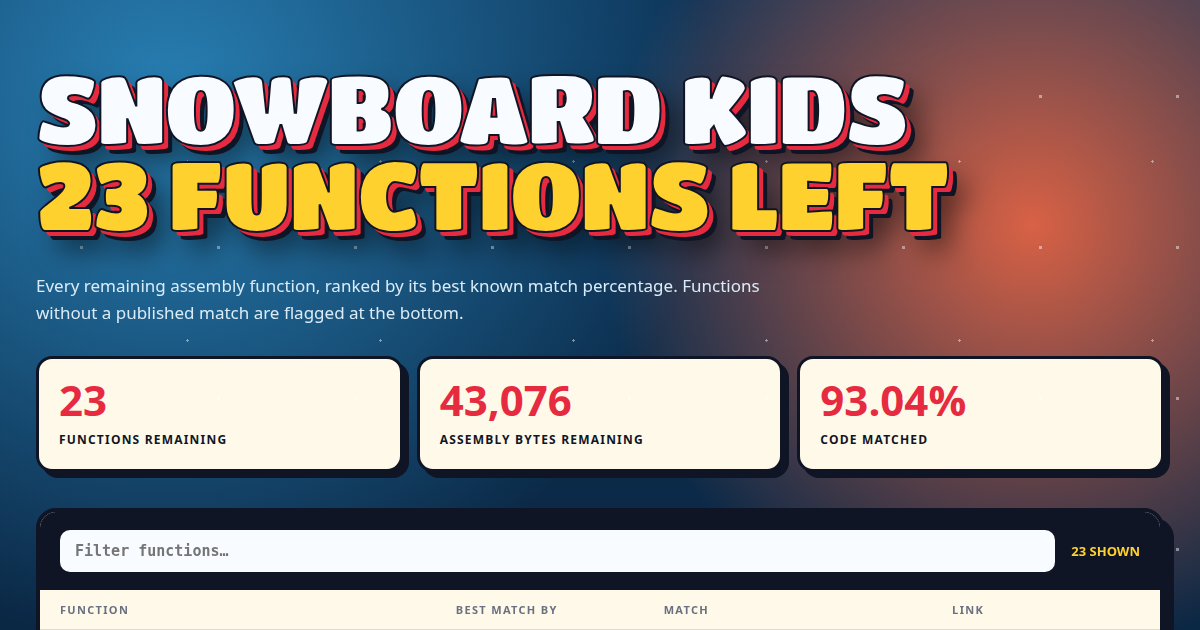
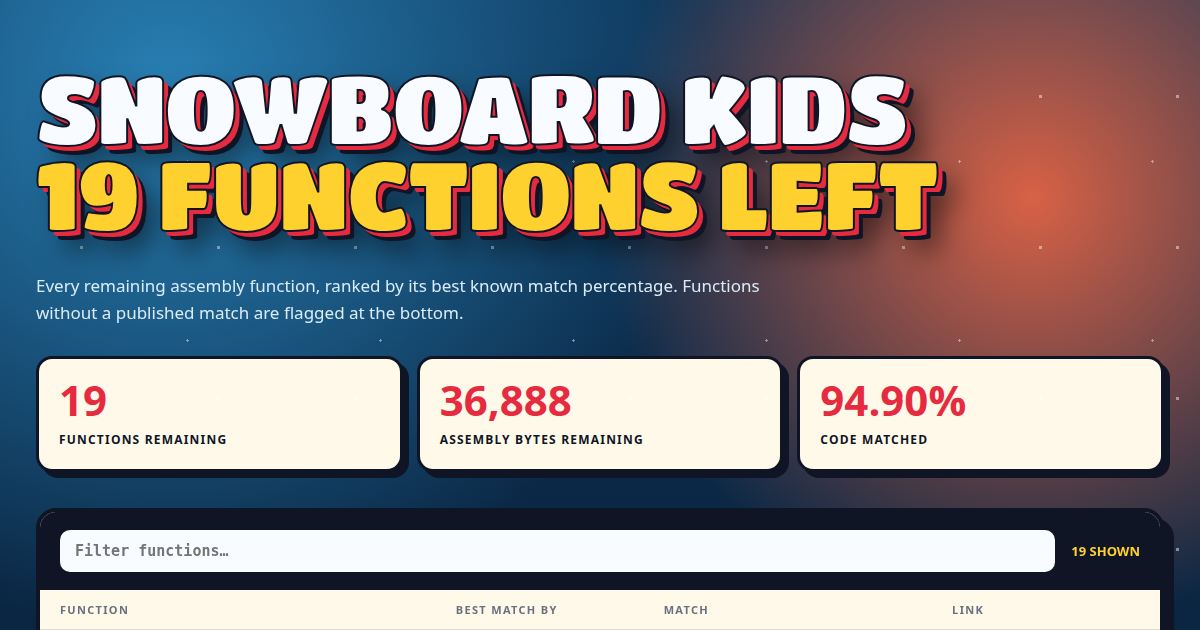
update leaderboard

diff --git a/docs/index.html b/docs/index.html
@@ -3,9 +3,9 @@
   <head>
     <meta charset="utf-8" />
     <meta name="viewport" content="width=device-width, initial-scale=1" />
-    <title>Snowboard Kids — 23 Functions Left</title>
+    <title>Snowboard Kids — 19 Functions Left</title>
     <meta name="description" content="Snowboard Kids matching decompilation progress and remaining function report." />
-    <meta property="og:title" content="Snowboard Kids — 23 Functions Left" />
+    <meta property="og:title" content="Snowboard Kids — 19 Functions Left" />
     <meta property="og:description" content="Best known match percentages for the remaining functions." />
     <meta property="og:type" content="website" />
     <meta property="og:image" content="og.png" />
@@ -199,58 +199,31 @@
   </head>
   <body>
     <header>
-      <h1>Snowboard Kids<br /><em>23 functions left</em></h1>
+      <h1>Snowboard Kids<br /><em>19 functions left</em></h1>
       <p class="intro">Every remaining assembly function, ranked by its best known match percentage. Functions without a published match are flagged at the bottom.</p>
     </header>
 
     <section class="stats" aria-label="Project summary">
-      <div class="stat"><strong>23</strong><span>functions remaining</span></div>
-      <div class="stat"><strong>43,076</strong><span>assembly bytes remaining</span></div>
-      <div class="stat"><strong>93.04%</strong><span>code matched</span></div>
+      <div class="stat"><strong>19</strong><span>functions remaining</span></div>
+      <div class="stat"><strong>36,888</strong><span>assembly bytes remaining</span></div>
+      <div class="stat"><strong>94.90%</strong><span>code matched</span></div>
     </section>
 
     <main>
       <section class="panel">
         <div class="toolbar">
           <label><input id="search" type="search" placeholder="Filter functions…" autocomplete="off" /></label>
-          <span id="visible-count">23 shown</span>
+          <span id="visible-count">19 shown</span>
         </div>
         <div class="table-head"><span>Function</span><span>Best match by</span><span>Match</span><span>Link</span></div>
-        <article class="function-row" data-name="updateraceplayerrankings" data-score="99.949495">
-          <div class="function-cell">
-            <span class="function-name">updateRacePlayerRankings</span>
-            <span class="function-size">792 bytes</span>
-          </div>
-          <div class="source-cell">cdlewis</div>
-          <div class="score-cell"><div class="score-track" aria-label="Match 99.949%"><span style="width:99.949%"></span></div><strong>99.949%</strong></div>
-          <div class="actions"><a class="action" href="https://decomp.me/scratch/tDy6z" target="_blank" rel="noopener">decomp.me ↗</a></div>
-        </article>
         <article class="function-row" data-name="getracecoursetargetpositionahead" data-score="99.902913">
           <div class="function-cell">
             <span class="function-name">getRaceCourseTargetPositionAhead</span>
             <span class="function-size">1,648 bytes</span>
           </div>
-          <div class="source-cell">cdlewis</div>
+          <div class="source-cell">Bl00D4NGEL</div>
           <div class="score-cell"><div class="score-track" aria-label="Match 99.903%"><span style="width:99.903%"></span></div><strong>99.903%</strong></div>
-          <div class="actions"><a class="action" href="https://decomp.me/scratch/fOgw6" target="_blank" rel="noopener">decomp.me ↗</a></div>
-        </article>
-        <article class="function-row" data-name="updatecourseselectmodemenu" data-score="99.707031">
-          <div class="function-cell">
-            <span class="function-name">updateCourseSelectModeMenu</span>
-            <span class="function-size">1,024 bytes</span>
-          </div>
-          <div class="source-cell">cdlewis</div>
-          <div class="score-cell"><div class="score-track" aria-label="Match 99.707%"><span style="width:99.707%"></span></div><strong>99.707%</strong></div>
-          <div class="actions"><a class="action" href="https://decomp.me/scratch/AxqBk" target="_blank" rel="noopener">decomp.me ↗</a></div>
-        </article>
-        <article class="function-row" data-name="drawtrainingcoursedialog" data-score="99.570248">
-          <div class="function-cell">
-            <span class="function-name">drawTrainingCourseDialog</span>
-            <span class="function-size">1,452 bytes</span>
-          </div>
-          <div class="source-cell">cdlewis</div>
-          <div class="score-cell"><div class="score-track" aria-label="Match 99.570%"><span style="width:99.570%"></span></div><strong>99.570%</strong></div>
-          <div class="actions"><a class="action" href="https://decomp.me/scratch/xnACu" target="_blank" rel="noopener">decomp.me ↗</a></div>
+          <div class="actions"><a class="action" href="https://decomp.me/scratch/duzoI" target="_blank" rel="noopener">decomp.me ↗</a></div>
         </article>
         <article class="function-row" data-name="updatecourseselectcoursedetailsmenu" data-score="99.473684">
           <div class="function-cell">
@@ -315,15 +288,6 @@
           <div class="score-cell"><div class="score-track" aria-label="Match 98.163%"><span style="width:98.163%"></span></div><strong>98.163%</strong></div>
           <div class="actions"><a class="action" href="https://decomp.me/scratch/Csk4t" target="_blank" rel="noopener">decomp.me ↗</a></div>
         </article>
-        <article class="function-row" data-name="submitframebufferrendertask" data-score="97.595890">
-          <div class="function-cell">
-            <span class="function-name">submitFramebufferRenderTask</span>
-            <span class="function-size">2,920 bytes</span>
-          </div>
-          <div class="source-cell">cdlewis</div>
-          <div class="score-cell"><div class="score-track" aria-label="Match 97.596%"><span style="width:97.596%"></span></div><strong>97.596%</strong></div>
-          <div class="actions"><a class="action" href="https://decomp.me/scratch/qZR02" target="_blank" rel="noopener">decomp.me ↗</a></div>
-        </article>
         <article class="function-row" data-name="drawscaledassettablespritewithexplicitpalette" data-score="97.313665">
           <div class="function-cell">
             <span class="function-name">drawScaledAssetTableSpriteWithExplicitPalette</span>
@@ -378,6 +342,15 @@
           <div class="score-cell"><div class="score-track" aria-label="Match 94.966%"><span style="width:94.966%"></span></div><strong>94.966%</strong></div>
           <div class="actions"><a class="action" href="https://decomp.me/scratch/7w43X" target="_blank" rel="noopener">decomp.me ↗</a></div>
         </article>
+        <article class="function-row" data-name="drawmenuspritefixedscale" data-score="93.684834">
+          <div class="function-cell">
+            <span class="function-name">drawMenuSpriteFixedScale</span>
+            <span class="function-size">1,688 bytes</span>
+          </div>
+          <div class="source-cell">Bl00D4NGEL</div>
+          <div class="score-cell"><div class="score-track" aria-label="Match 93.685%"><span style="width:93.685%"></span></div><strong>93.685%</strong></div>
+          <div class="actions"><a class="action" href="https://decomp.me/scratch/E257B" target="_blank" rel="noopener">decomp.me ↗</a></div>
+        </article>
         <article class="function-row" data-name="drawmenuspritewithalphaclipped" data-score="91.425390">
           <div class="function-cell">
             <span class="function-name">drawMenuSpriteWithAlphaClipped</span>
@@ -396,15 +369,6 @@
           <div class="score-cell"><div class="score-track" aria-label="Match 89.726%"><span style="width:89.726%"></span></div><strong>89.726%</strong></div>
           <div class="actions"><a class="action" href="https://decomp.me/scratch/yIYrl" target="_blank" rel="noopener">decomp.me ↗</a></div>
         </article>
-        <article class="function-row" data-name="drawmenuspritefixedscale" data-score="88.466825">
-          <div class="function-cell">
-            <span class="function-name">drawMenuSpriteFixedScale</span>
-            <span class="function-size">1,688 bytes</span>
-          </div>
-          <div class="source-cell">cdlewis</div>
-          <div class="score-cell"><div class="score-track" aria-label="Match 88.467%"><span style="width:88.467%"></span></div><strong>88.467%</strong></div>
-          <div class="actions"><a class="action" href="https://decomp.me/scratch/TrfsK" target="_blank" rel="noopener">decomp.me ↗</a></div>
-        </article>
         <article class="function-row" data-name="updatecharacterselectmenu" data-score="87.464865">
           <div class="function-cell">
             <span class="function-name">updateCharacterSelectMenu</span>
@@ -414,20 +378,20 @@
           <div class="score-cell"><div class="score-track" aria-label="Match 87.465%"><span style="width:87.465%"></span></div><strong>87.465%</strong></div>
           <div class="actions"><a class="action" href="https://decomp.me/scratch/fyh4J" target="_blank" rel="noopener">decomp.me ↗</a></div>
         </article>
-        <article class="function-row" data-name="updatecourseselectcourselist" data-score="79.488136">
+        <article class="function-row" data-name="updatecourseselectcourselist" data-score="85.427119">
           <div class="function-cell">
             <span class="function-name">updateCourseSelectCourseList</span>
             <span class="function-size">3,540 bytes</span>
           </div>
-          <div class="source-cell">cdlewis</div>
-          <div class="score-cell"><div class="score-track" aria-label="Match 79.488%"><span style="width:79.488%"></span></div><strong>79.488%</strong></div>
-          <div class="actions"><a class="action" href="https://decomp.me/scratch/yRE62" target="_blank" rel="noopener">decomp.me ↗</a></div>
+          <div class="source-cell">Bl00D4NGEL</div>
+          <div class="score-cell"><div class="score-track" aria-label="Match 85.427%"><span style="width:85.427%"></span></div><strong>85.427%</strong></div>
+          <div class="actions"><a class="action" href="https://decomp.me/scratch/biV4R" target="_blank" rel="noopener">decomp.me ↗</a></div>
         </article>
         <p class="empty" id="empty">No functions match that filter.</p>
       </section>
     </main>
 
-    <footer>Generated 2026-08-14 04:01 UTC · scores are snapshots and may have moved since generation</footer>
+    <footer>Generated 2026-08-14 23:39 UTC · scores are snapshots and may have moved since generation</footer>
     <script>
       const search = document.querySelector("#search");
       const rows = [...document.querySelectorAll(".function-row")];
